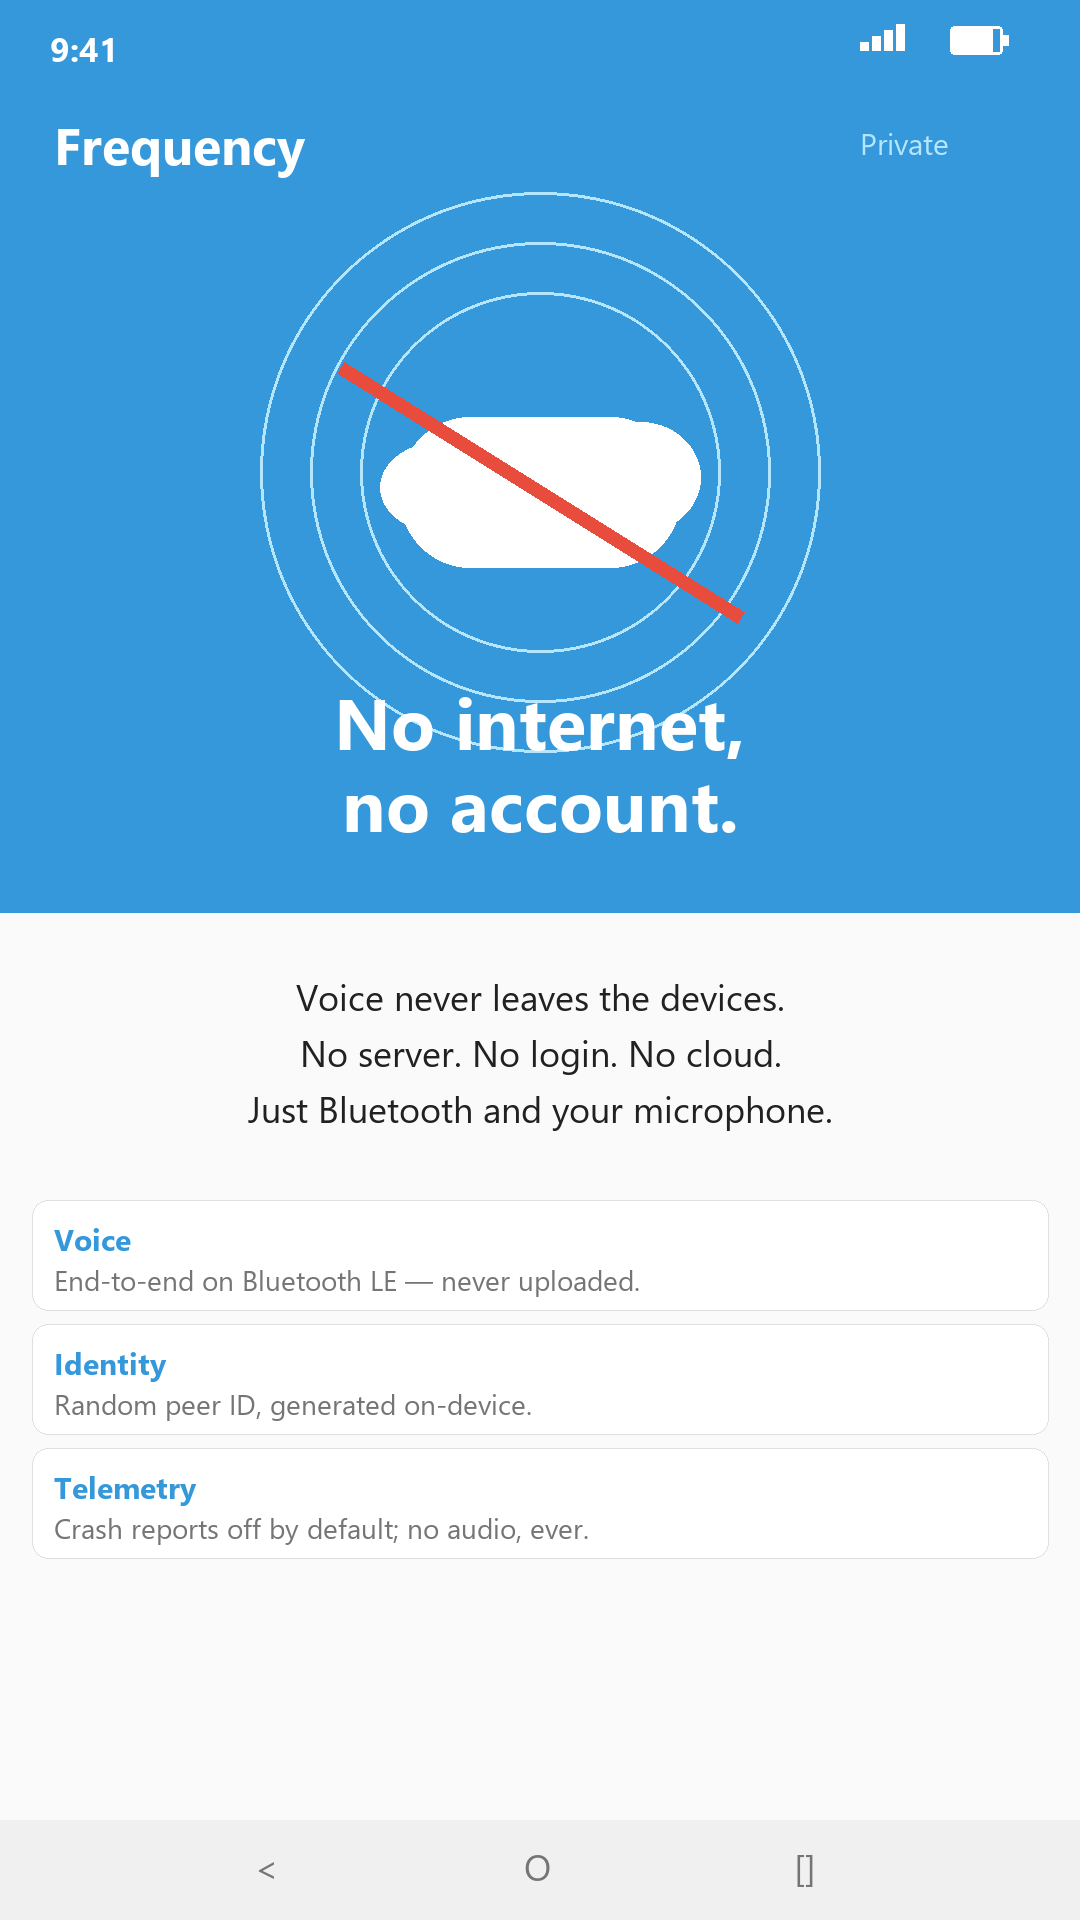
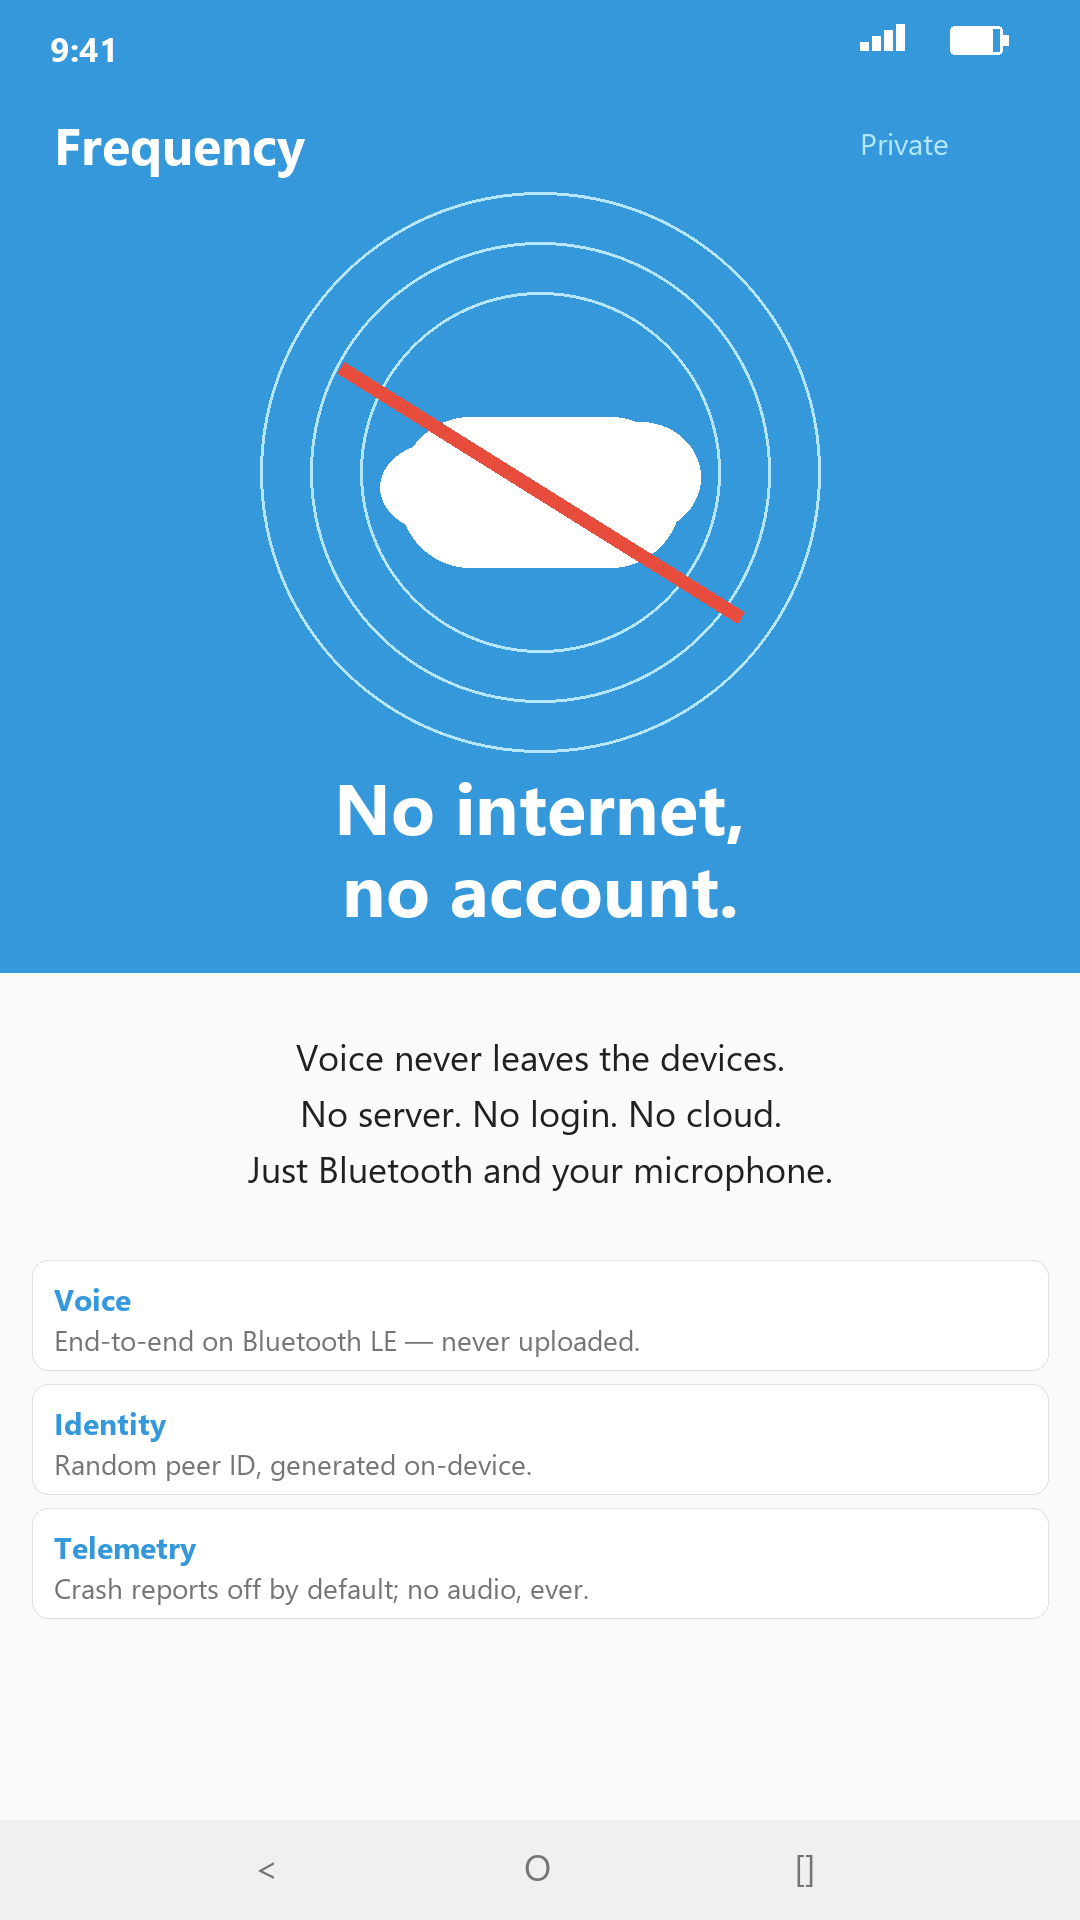
fix: address gemini review on privacy screenshot generator (#358)
Address all three gemini-code-assist findings on PR #358:

1. Headlines no longer overlap the decorative concentric rings.
   The outer ring extends to `cy + 280` (= y + 560); the first
   headline now sits at `y + 565`, the second at `y + 647`, with
   the hero band lifted from 720 → 780 px so neither line spills
   onto the white background.
2. `make_privacy()` now caches font objects (`f72b`, `f36`, `f30b`,
   `f28`) once outside their loops instead of reloading the same
   TTF from disk for every call.
3. Bullet rectangles use the existing `rounded_rect()` helper for
   consistency with the rest of the script.

Also document a known drift between the Pillow mockups and the
real app (palette, typography, in-app radar metaphor vs. real
Bluetooth-LE peer list) plus three concrete approaches for
replacing the mockups with real screen captures, tracked in #359.

Changed region(s): [[0.0, 0.3438, 1.0, 0.625], [0.0306, 0.625, 0.5806, 0.8438]]

diff --git a/scripts/gen_screenshots.py b/scripts/gen_screenshots.py
@@ -301,8 +301,10 @@ def make_privacy():
     d.text((W - 220, 122), "Private", font=fnt(30), fill=(180, 230, 255))
     y = 192
 
-    # Hero band with cloud-off-style icon (crossed cloud over Wi-Fi arcs)
-    band_h = 720
+    # Hero band with cloud-off-style icon (crossed cloud over Wi-Fi arcs).
+    # Tall enough to fit two 72-px headline lines below the rings without
+    # spilling onto the white background.
+    band_h = 780
     d.rectangle([0, y, W, y + band_h], fill=BLUE)
     cx, cy = W // 2, y + 280
     # Concentric rings (Wi-Fi-style) behind the cloud, low-opacity look
@@ -319,38 +321,45 @@ def make_privacy():
             cx + cw // 2 + 60, cy + ch // 2 + 70],
            fill=RED_PTT, width=14)
 
-    # Headline beneath the icon
+    # Headline beneath the icon. The outer ring radius is 280 px from cy
+    # (= y + 280), so the rings extend down to y + 560. Place the first
+    # baseline at y + 565 to clear them.
+    f72b = fnt(72, True)
     headline1 = "No internet,"
     headline2 = "no account."
-    h1w = d.textlength(headline1, font=fnt(72, True))
-    h2w = d.textlength(headline2, font=fnt(72, True))
-    d.text((cx - int(h1w) // 2, y + 480), headline1, font=fnt(72, True), fill=WHITE)
-    d.text((cx - int(h2w) // 2, y + 562), headline2, font=fnt(72, True), fill=WHITE)
+    h1w = d.textlength(headline1, font=f72b)
+    h2w = d.textlength(headline2, font=f72b)
+    d.text((cx - int(h1w) // 2, y + 565), headline1, font=f72b, fill=WHITE)
+    d.text((cx - int(h2w) // 2, y + 647), headline2, font=f72b, fill=WHITE)
     y += band_h
 
-    # Body copy
+    # Body copy. Cache the font outside the loop — fnt() loads from disk
+    # on every call.
     y += 60
+    f36 = fnt(36)
     body_lines = [
         "Voice never leaves the devices.",
         "No server. No login. No cloud.",
         "Just Bluetooth and your microphone.",
     ]
     for line in body_lines:
-        lw = d.textlength(line, font=fnt(36))
-        d.text((W // 2 - int(lw) // 2, y), line, font=fnt(36), fill=TEXT1)
+        lw = d.textlength(line, font=f36)
+        d.text((W // 2 - int(lw) // 2, y), line, font=f36, fill=TEXT1)
         y += 56
 
-    # Privacy bullets
+    # Privacy bullets. Same font-caching reasoning as the body copy above.
     y += 60
+    f30b = fnt(30, True)
+    f28 = fnt(28)
     bullets = [
         ("Voice", "End-to-end on Bluetooth LE — never uploaded."),
         ("Identity", "Random peer ID, generated on-device."),
         ("Telemetry", "Crash reports off by default; no audio, ever."),
     ]
     for label, text in bullets:
-        d.rounded_rectangle([32, y, W - 32, y + 110], radius=16, fill=CARD_BG, outline=DIVIDER, width=1)
-        d.text((54, y + 18), label, font=fnt(30, True), fill=BLUE)
-        d.text((54, y + 60), text, font=fnt(28), fill=TEXT2)
+        rounded_rect(d, [32, y, W - 32, y + 110], r=16, fill=CARD_BG, outline=DIVIDER, width=1)
+        d.text((54, y + 18), label, font=f30b, fill=BLUE)
+        d.text((54, y + 60), text, font=f28, fill=TEXT2)
         y += 124
 
     nav_bar(d)

diff --git a/fastlane/metadata/android/en-US/images/IMAGES.md b/fastlane/metadata/android/en-US/images/IMAGES.md
@@ -53,6 +53,40 @@ Screenshots:
 To replace with real device captures:
 `adb exec-out screencap -p > phoneScreenshots/1.png` (repeat for each screen).
 
+### Mockups vs. real app — known drift
+
+The current Pillow mockups in `scripts/gen_screenshots.py` are stylised
+representations and **do not match the in-app palette or typography**:
+
+| Aspect            | Mockup                  | Actual app (`lib/theme/app_theme.dart`)         |
+| ----------------- | ----------------------- | ----------------------------------------------- |
+| Accent colour     | `#3498DB` blue          | `#4DB47C` green (`FrequencyColors.light.accent`) |
+| Background        | `#FAFAFA`               | `#FAFAFB` (close)                               |
+| Text font         | Segoe UI / DejaVu Sans  | Inter (no font asset shipped — system fallback) |
+| Discovery hero    | "Tuning the dial" radio | Bluetooth-LE peer list with `PulseDot` scanning |
+| Room screen       | Two peer rows + PTT pill | `PushToTalkButton`, `PeerRow` linear list       |
+| MHz channel label | Mock                    | Real (`'$_newFreq MHz'` in `_buildCreateCard`)  |
+
+A path to faithful captures is tracked in
+[#359](https://github.com/ElodinLaarz/walkie-talkie/issues/359). Three
+viable approaches with trade-offs:
+
+1. **Widget-test capture** — pump each screen with mock cubits in a
+   `flutter test`, wrap in `RepaintBoundary`, call `toImage()`, save PNG.
+   Reuses existing mocks in `test/screens/*`. Pre-reqs: bundle Inter as
+   an asset (or load via `golden_toolkit`'s `loadAppFonts()`), still the
+   `PulseDot` / scanning animations, omit OS chrome (status + nav bars
+   are renderer overlays, not in the widget tree).
+2. **Emulator + `adb exec-out screencap`** — boot a Pixel-shaped AVD,
+   drive the app to each state, capture. Faithful chrome but slow,
+   harder to script deterministically, and animations need to be paused.
+3. **Hybrid** — capture widget body via #1, composite mock OS chrome
+   (status/nav bars) on top in Pillow. Best fidelity-to-cost ratio.
+
+Until that lands, the existing mockups satisfy Play's *graphic asset*
+requirement (and promotion-eligibility threshold of 4@1080) but should
+be regarded as marketing illustrations, not faithful captures.
+
 ## 7-inch tablet screenshots (recommended)
 
 File names: `sevenInchScreenshots/1.png`, `2.png`